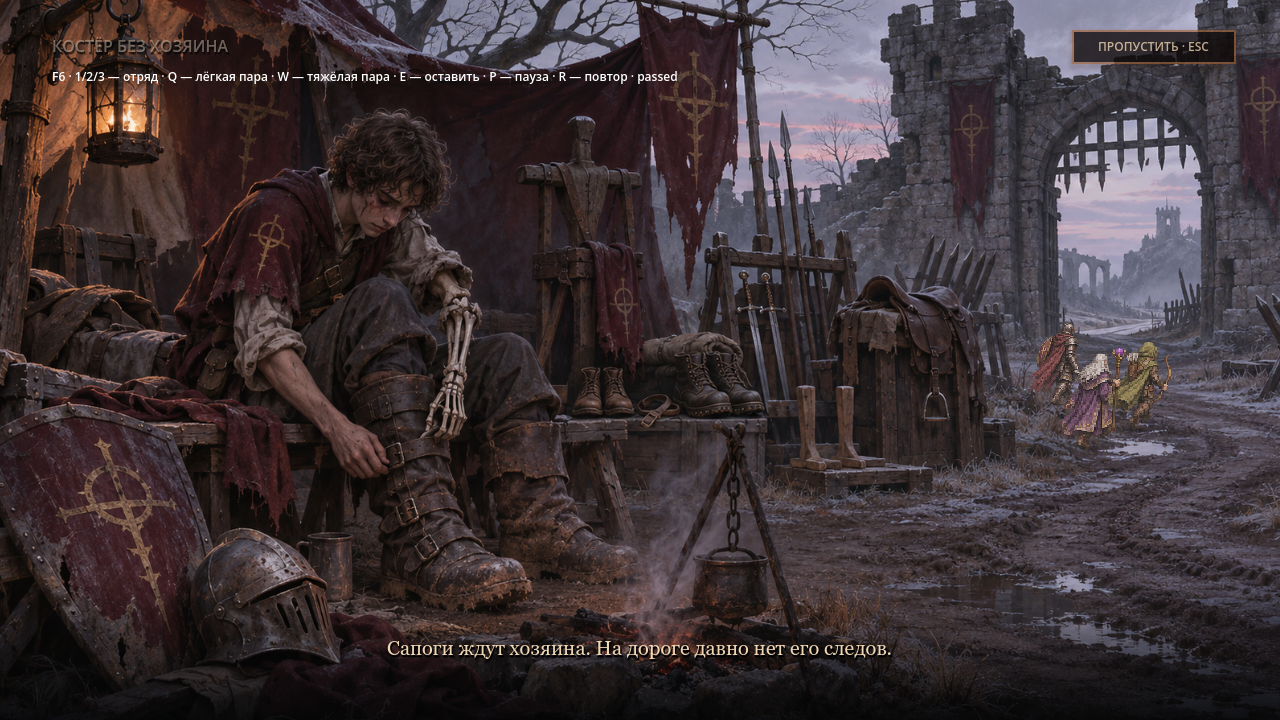
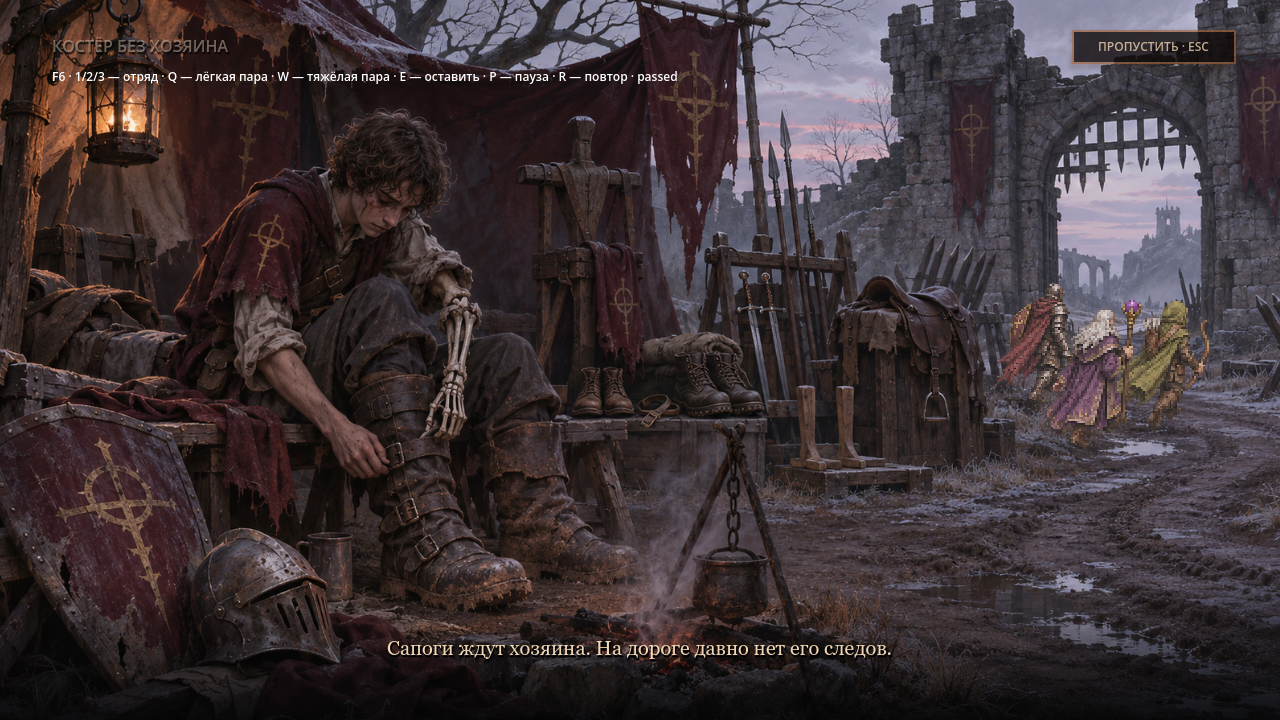
fix(travel): match campfire party height to the near road

Changed region(s): [[0.7812, 0.3972, 0.9688, 0.6111]]

diff --git a/docs/TRAVEL_CAMPFIRE_WITHOUT_MASTER.md b/docs/TRAVEL_CAMPFIRE_WITHOUT_MASTER.md
@@ -29,7 +29,7 @@ godot --headless --path . --script res://scripts/dev/pack_campfire_walk.gd
 
 New scene-only18-pose NE rear walk: six authored poses per Knight/Ranger/Mage in separate576×96 RGBA strips,96px cells. Redrawn for the correct direction rather than mirrored NW sprites. Costume/weapon references are the unchanged D412 polish atlases; original combat files and Scene03 rear pack are untouched. Packer checks six distinct padded poses per role and records the central-boot sole of each pose. Texture filtering stays nearest, without blur or transparent ghosts.
 
-Uses the existing optional `stage_party` hook. Scene04-only cubic road retains origin(1130,610), controls(1125,555)/(1055,430) and the open-gate target(1135,315), baked at2px arc length. The four-second shot now covers only a believable part of this road, not the whole distance to the gate. Reciprocal-depth progress0.65 slows screen travel; longitudinal spacing52 and alternating70px near-road lanes create a loose group whose intervals contract into depth. Baseline scale2.3 at the near contact line610 is projected from each actual sole height above road horizon210, rather than a separate per-rank/time size multiplier. This anchors adult height to nearby fences, crates and the road plane. Solo uses the same road/depth. Road displacement, measured boot soles, depth-sorted contacts and shadow/dust scale remain aligned; haze follows geometric depth without blur. Existing duration, UI, pause/skip, fallback and Table routing remain unchanged. No other panorama, atlas, save or gameplay edits.
+Uses the existing optional `stage_party` hook. Scene04-only cubic road retains origin(1130,610), controls(1125,555)/(1055,430) and the open-gate target(1135,315), baked at2px arc length. The four-second shot now covers only a believable part of this road, not the whole distance to the gate. Reciprocal-depth progress0.65 slows screen travel; longitudinal spacing52 and alternating105px near-road lanes create a loose group whose intervals contract into depth. Baseline scale3.4 at the near contact line610 is projected from each actual sole height above road horizon210, rather than a separate per-rank/time size multiplier. This anchors adult height to nearby fences, crates and the road plane. Solo uses the same road/depth. Road displacement, measured boot soles, depth-sorted contacts and shadow/dust scale remain aligned; haze follows geometric depth without blur. Existing duration, UI, pause/skip, fallback and Table routing remain unchanged. No other panorama, atlas, save or gameplay edits.
 
 ## Verification and limits
 

diff --git a/docs/HANDOFF.md b/docs/HANDOFF.md
@@ -1,6 +1,6 @@
 ## Scene04 — final ground-plane perspective
 
-Scene04 final perspective calibration replaces the earlier percentage-only size tweaks. Adult scale follows sole height over a scene-local road horizon; a wider staggered group walks a shorter believable stretch of the same curved road. Road/architectural art, V2 timing, rear atlases and all outcomes unchanged. Native full trio/solo and existing GUT2/2,111 assertions pass. Three current frames: [calibration](qa/campfire/calibration/README.md). PR #110 stays open for user artistic review.
+Scene04 final perspective calibration replaces the earlier percentage-only size tweaks. Near-road adult scale is3.4 after user review (previous2.3 still read too small beside the squire), projected from sole height over the same road horizon; a wider105px staggered group walks a shorter believable stretch of the same curved road. Road/architectural art, V2 timing, rear atlases and all outcomes unchanged. Native full trio/solo and existing GUT2/2,111 assertions pass. Three current frames: [calibration](qa/campfire/calibration/README.md). PR #110 stays open for user artistic review.
 
 ## Scene04 — smaller party, same road (PR #110)
 

diff --git a/docs/PROJECT_STATE.md b/docs/PROJECT_STATE.md
@@ -1,6 +1,6 @@
 ## Scene04 — final ground-plane perspective
 
-Scene04 final perspective calibration replaces the earlier percentage-only size tweaks. Adult scale follows sole height over a scene-local road horizon; a wider staggered group walks a shorter believable stretch of the same curved road. Road/architectural art, V2 timing, rear atlases and all outcomes unchanged. Native full trio/solo and existing GUT2/2,111 assertions pass. Three current frames: [calibration](qa/campfire/calibration/README.md). PR #110 stays open for user artistic review.
+Scene04 final perspective calibration replaces the earlier percentage-only size tweaks. Near-road adult scale is3.4 after user review (previous2.3 still read too small beside the squire), projected from sole height over the same road horizon; a wider105px staggered group walks a shorter believable stretch of the same curved road. Road/architectural art, V2 timing, rear atlases and all outcomes unchanged. Native full trio/solo and existing GUT2/2,111 assertions pass. Three current frames: [calibration](qa/campfire/calibration/README.md). PR #110 stays open for user artistic review.
 
 ## Scene04 — perspective integration correction
 

diff --git a/CHANGELOG.md b/CHANGELOG.md
@@ -1,3 +1,7 @@
+## Scene04 — adult scale beside the near road
+
+Increase near baseline2.3→3.4 after user review; preserve sole-height perspective projection and the road route. Widen side lanes70→105px to separate the larger silhouettes. Native full trio/solo and existing GUT2/2,111 assertions pass; update three real Godot frames. Source, timing, outcomes and other scenes unchanged.
+
 ## Scene04 — ground-plane scale and group staging
 
 Calibrate adult height to road depth and architecture; replace the vertical file with a wider staggered group and slower, shorter travel along the retained curve. Sole contacts, shadows, dust and haze follow the same depth. Art, atlases, V2 duration, outcomes and other scenes unchanged. Native trio/solo and existing GUT2/2,111 assertions pass; three native review frames retained.

diff --git a/docs/qa/campfire/calibration/README.md b/docs/qa/campfire/calibration/README.md
@@ -6,4 +6,6 @@ Actual unedited Godot4.7.2 GL Compatibility screenshots at1280×720, F6 scene `s
 - [Middle](middle.png): readable separate bodies following the road bend.
 - [End](end.png): smaller, depth-integrated party still on the road approaching the gate; the shot deliberately does not traverse the entire painting in four seconds.
 
+Current near baseline3.4 and105px side lanes address the user's feedback that the prior2.3 still looked too small beside the near road/squire.
+
 These frames supersede the earlier straight-file/percentage-only staging. Source/outcome art, shared V2 timing and other scenes are unchanged. Artistic acceptance remains with the user; PR #110 must stay open.
